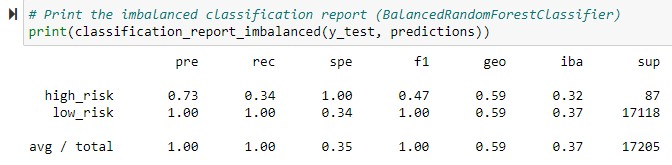
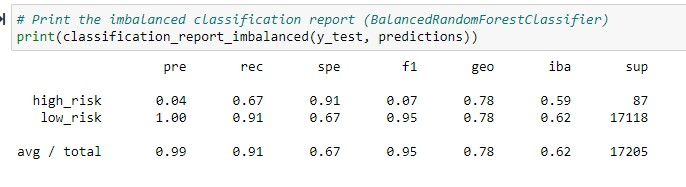
updated  Deliverable 3 part 1

diff --git a/README.md b/README.md
@@ -41,18 +41,20 @@ Comparison of all six machine learning models used in this analysis, specificall
     ![Image of SMOTEENN](https://github.com/jcourt99/Credit_Risk_Analysis/blob/main/Images/SMOTEENN_classification.jpg)
     
 
-* BalancedRandomForestClassifier
-    * Balanced Accuracy Score: 67.2%
-    * Precision Score: high risk = 73%, low risk = 100%
-    * Recall Score: high risk = 34%, low risk = 100%
+* BalancedRandomForestClassifier (Ensemble Classifier)
+    * Balanced Accuracy Score: 78.8%
+    * Precision Score: high risk = 4%, low risk = 100%
+    * Recall Score: high risk = 67%, low risk = 91%
 
     ![Image of Balanced Random Forest](https://github.com/jcourt99/Credit_Risk_Analysis/blob/main/Images/Random_Forest_classification.jpg)
-    
 
-* EasyEnsembleClassifier
+
+* EasyEnsembleClassifier (Ensemble Classifier)
     * Balanced Accuracy Score:
     * Precision Score:
     * Recall Score:
+
+    ![Image of Balanced Random Forest](https://github.com/jcourt99/Credit_Risk_Analysis/blob/main/Images/Random_Forest_classification.jpg)
 
 
 ## Summary
